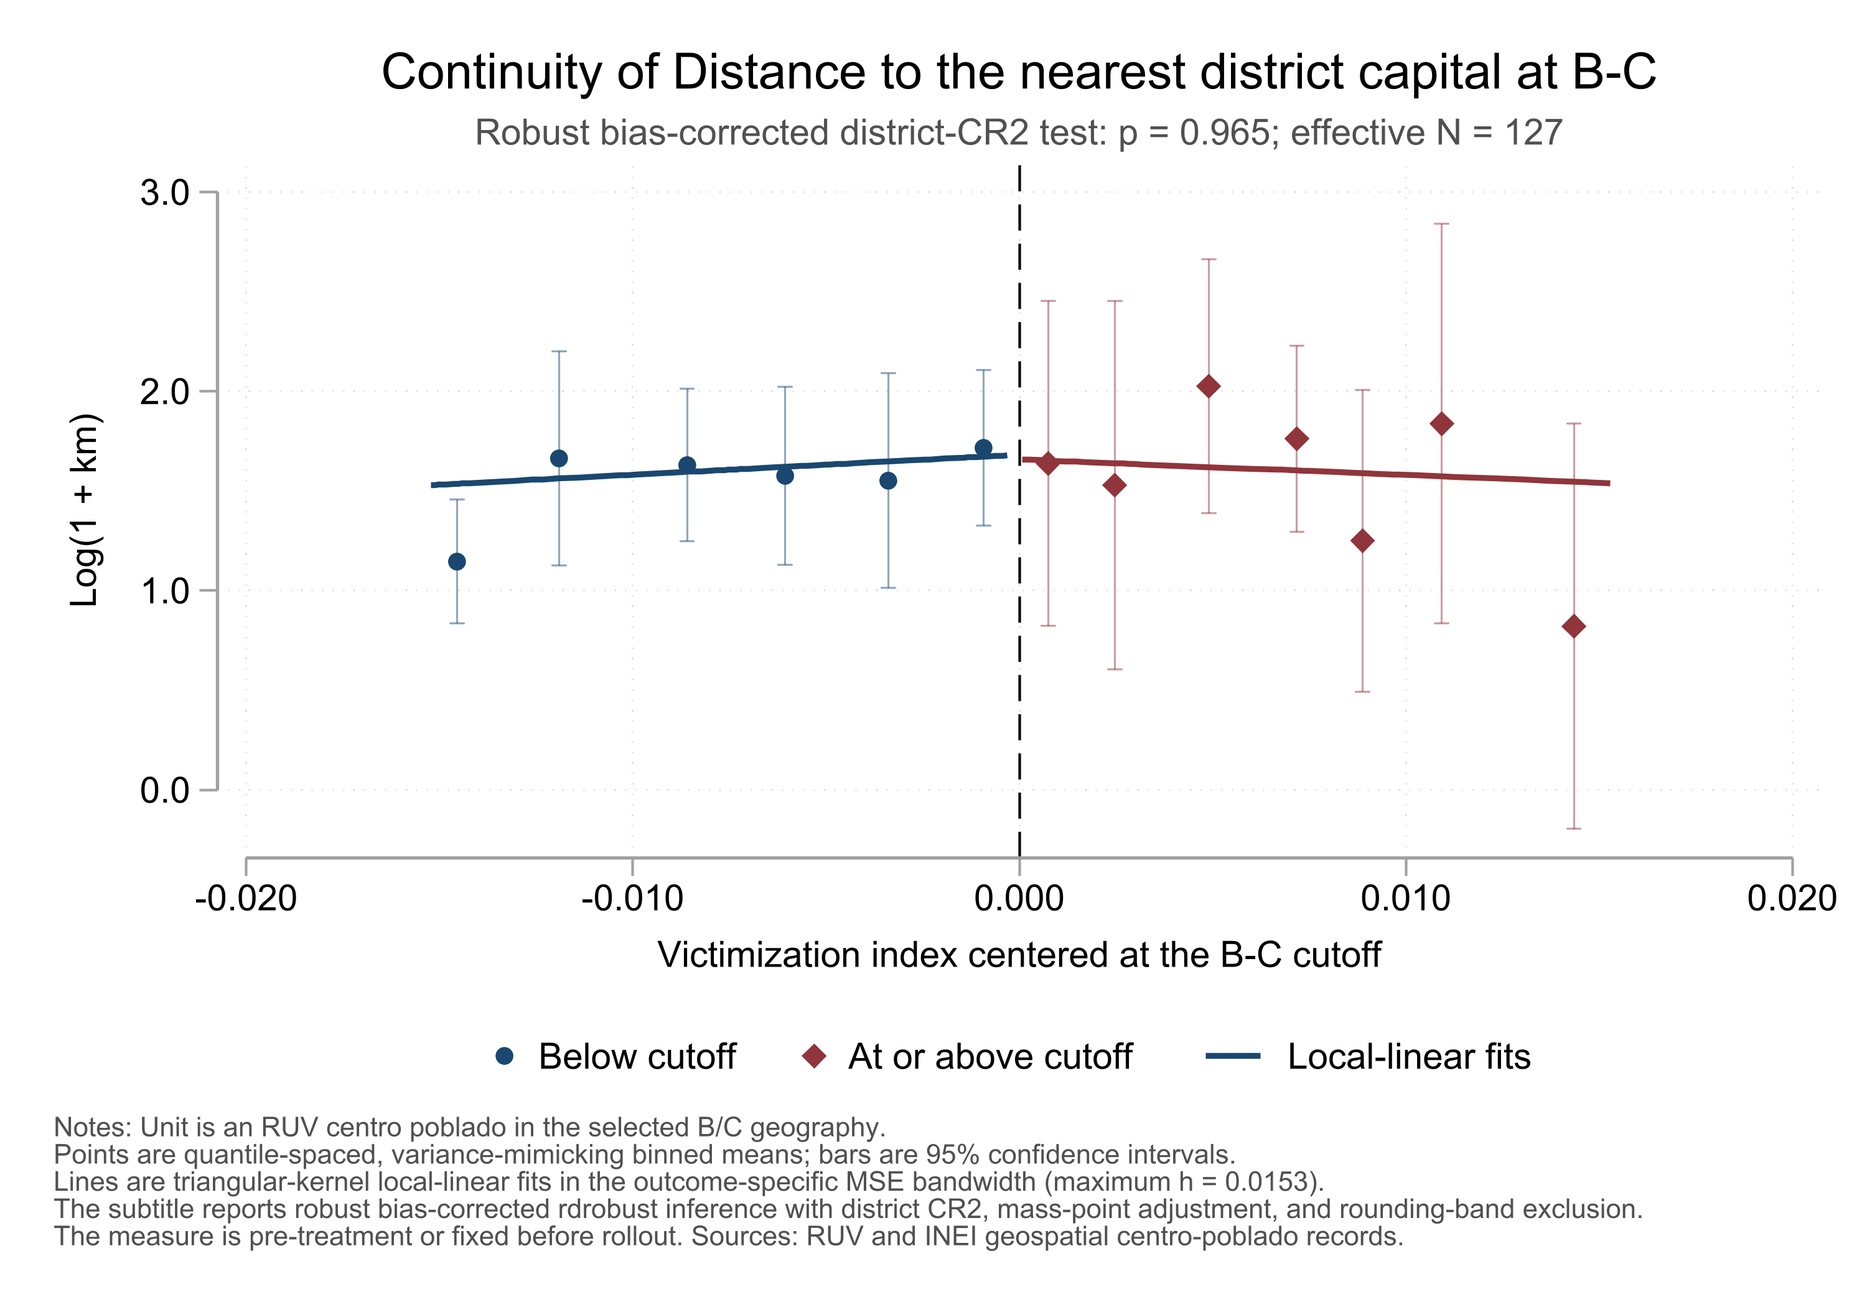
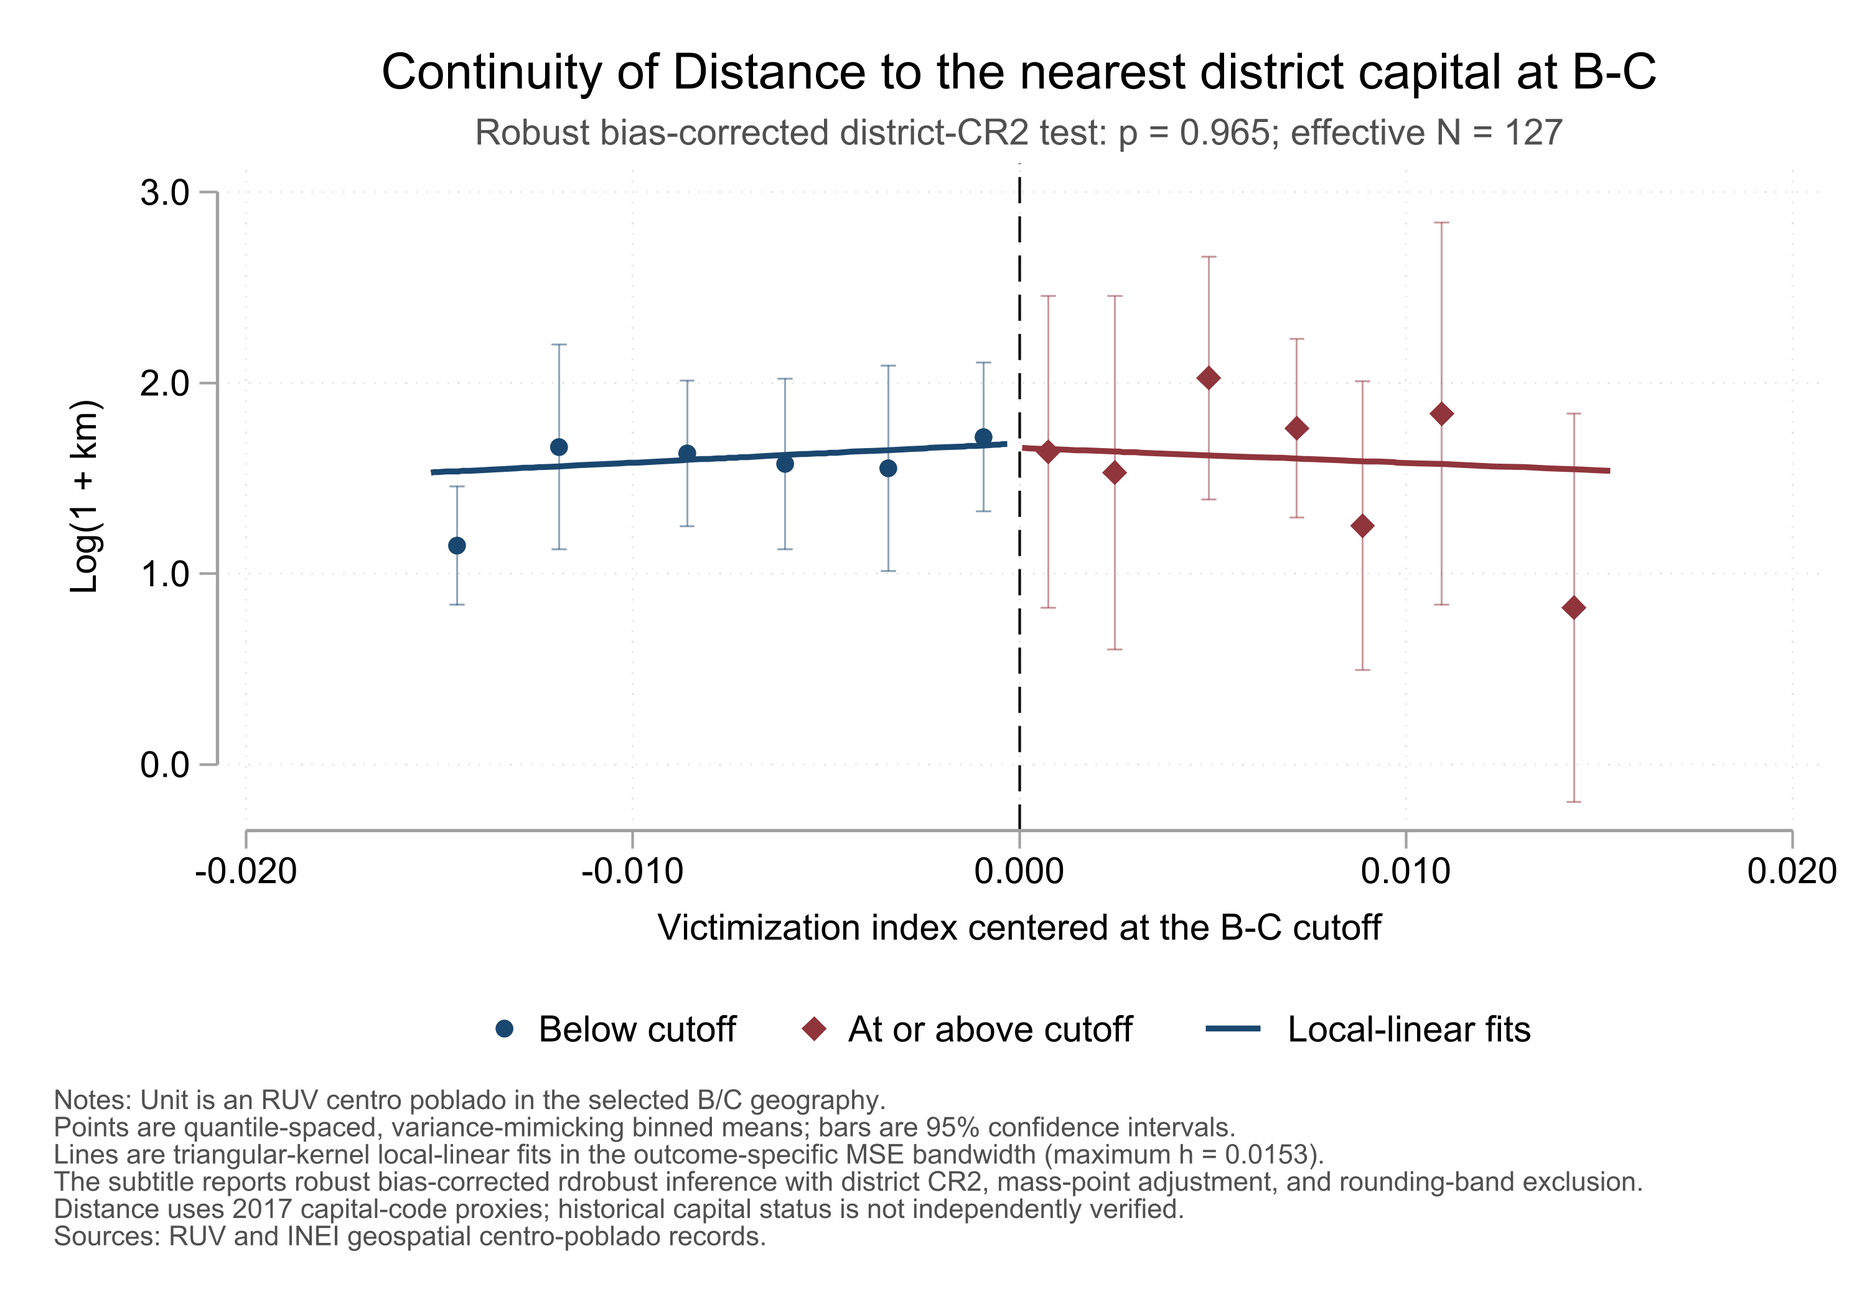
Review held RD diagnostic figures and clarify source notes
Audit all 19 held running-variable and covariate-continuity figures and record
artifact provenance, formal denominators, uncertainty, source qualifications,
full-width review results, and explicit pending integration/release decisions.

Clarify the 2017 geographic-source timing, GDP source units, and the
concentration measure's 2007 population allocation in the existing Stata
generator. Regenerate four presentation-only PNGs and refresh only their
manifest checksums and run IDs; retain generation-time review fields.

Validate through Stata MCP: all 36 manifest checksums, the density diagnostic,
and all 17 raw/standardized covariate tests. Reproduce all 19 final PNGs
byte-for-byte; confirm the other 15 and the before/after numerical audit are
unchanged. Independently verify registered BH/Holm corrections and all five
rendered-note/layout checks.

Inspect the 19-page internal review packet at the live 165.1 mm text width.
Preserve the two nominal covariate discrepancies and distinguish graphical
bin intervals from formal district-CR2 inference. Record the small-note,
rounded-score, historical-selection, source-unit, allocation, and timing limits.

Record the independent review's additional replacement-election timing
finding. Hold the three 2006 election figures pending owner-authorized
note-only repairs; do not drop records or reassign registered test families.

Leave all datasets, 48 primary estimates, 35 approved live exhibits,
[…]

diff --git a/docs/RD_GRAPHICAL_PUBLICATION_AUDIT_2026-10-03.md b/docs/RD_GRAPHICAL_PUBLICATION_AUDIT_2026-10-03.md
@@ -1,0 +1,257 @@
+# RD graphical publication audit — 3 October 2026
+
+## Decision and scope
+
+The owner authorized the next milestone specified in
+[the reader/compression receipt](PUBLICATION_READER_COMPRESSION_2026-10-03.md):
+artifact-level review of the 19 held RD diagnostic figures outside the 35
+already approved internal-draft exhibits. These are the two running-variable
+figures and all 17 separate covariate-continuity figures, numbered 08–26 by
+`03b_validate_rd_assumptions.do`. This is not an inventory-only review, a new
+sample search, or certification of the entire research project.
+
+The owner subsequently approved presentation-only repairs to geographic-source
+timing, GDP source units, and the concentration measure's population allocation.
+These affect four figures: altitude, nearest district-capital distance, district
+GDP in 2006, and district GDP concentration in 2006. Every sample, variable,
+estimate, bandwidth, formal test, and registered multiplicity family is held
+fixed. The GDP axis wording changes with its explanatory note; no underlying
+GDP values or transformation are changed.
+
+All 19 figures have been numerically checked, reproduced through Stata MCP, and
+visually inspected at the current manuscript's full text width. Sixteen are
+**reviewed internal candidates, pending owner integration**. Three 2006-election
+figures (G11–G13) are **held for an existing source-timing note correction** found
+by the independent reviewer. This receipt does not authorize copying any of
+them to live Overleaf or public release. The four geographic/GDP repairs are
+complete; an explicit owner question for the additional three note-only repairs
+is pending. Do not extend the existing four-repair approval silently.
+
+## Provenance and denominator checks
+
+The batch began on a clean `main` checkout at
+`3f0e7df46355291dde7da9d26e3a8817009feacf`. Its local pre-write baseline protects
+896 unique files: 799 tracked files, the needed live publication inputs, and the
+canonical input dataset. The live TeX inventory includes generated table inputs;
+it is not a count of 90 independently editable manuscript sections.
+
+The input is the configured Dropbox Coded current-analysis
+`08_community_registry_elections.dta`, with unchanged Stata signature
+`5712:283(61209):2588972924:1448729060`. Its 5,712 RUV observations remain intact.
+These diagnostic plots do **not** show the full RUV distribution: they concern
+the frozen geographic sample and adjacent B/C categories. The geographic sample
+has 1,162 observations; the eligible B/C diagnostic universe has 549, including
+294 below and 255 at/above the cutoff. There are 160 and 212 distinct recorded
+scores respectively. In this subset there are no score/category sign conflicts
+and no observations in the excluded half-rounding band; the closest scores are
+approximately -0.00032 and +0.00008 relative to B–C.
+
+The histogram's displayed range is ±0.02 index units, not all eligible support.
+Density and covariate effective samples differ from the eligible universe.
+Covariate missingness and the existing outcome-specific diagnostic bandwidth
+selectors produce effective samples of 75–163 observations. The registry reports
+eligible N, formal nonmissing input N, and effective N separately.
+
+## Executed checks and invariance
+
+- All Stata execution used `stata_run_selection`, in the isolated
+  `rd_graph_audit_20261003` session. No `stata_run_file`, direct executable,
+  PowerShell Stata command, or new interactive `.do` file was used.
+- The isolated session initially lacked the project's dependencies in its
+  default search path. The master-defined, already installed local PLUS cache
+  resolved this. No package was installed or upgraded; the user's separate
+  default Stata session was not changed or destroyed.
+- All 36 original module-manifest checksums passed before writing artifacts.
+  All 36 current checksums passed after the four presentation replacements.
+- Before repairs, the existing graphical selections reproduced all 19 original
+  PNGs byte-for-byte. After repairs, the final producing selections again
+  reproduced all 19 current PNGs byte-for-byte. The other 15 are unchanged from
+  the pre-write baseline; exactly four canonical PNGs changed.
+- Each of the 17 covariates was estimated in its displayed/raw units and again
+  in the standardized units used by the existing formal table. Frozen p-values,
+  bandwidths, and effective N passed the declared tolerances. Raw/standardized
+  p-values agree within 0.00001, bandwidths within 0.000001, and effective N
+  exactly. Frozen p-values agree within 0.0000005 and bandwidths within
+  0.00000001. These are numerical-comparison tolerances, not altered tests.
+- The complete before/after numerical-audit CSV is byte-identical, SHA-256
[1 lines of base64/hex data omitted]
+  This local non-observation audit record is
+  not a new analytical dataset or a public release artifact.
+- Execution covered the authoritative graphical producing selections and
+  focused numerical checks, not another full master/data-preparation run.
+- BH and Holm adjustments were independently recalculated from the frozen
+  nominal p-values for the existing 11-variable core and six-variable
+  timing-sensitive families, with agreement within 0.0000005. Linkage tests,
+  other variance branches, primary outcome families, and outcome estimates were
+  not reassigned or rerun by this graphical milestone.
+- The manifest's only field-value changes are the checksum and run ID for the
+  four repaired PNGs. The remaining 32 rows are unchanged in content; CSV quoting
+  was normalized by Stata export. Generation-time `generated_unreviewed` fields
+  remain intact. This dated artifact-review registry records a separate review
+  event rather than inventing generation-time owner or release approval.
+- Independent review prompted one additional aggregate Stata timing check.
+  `elect_complementary_2006` and `elect_result_year_2006` identify two 2007
+  replacement-election records among the 549 eligible B/C observations. Both
+  have nonmissing turnout, victory margin, and mayor-party variables; one
+  enters each variable's existing MSE bandwidth. The three re-estimated formal
+  p-values still match the frozen values within the original tolerances. These
+  are not a new sample restriction or a revised analysis family.
+
+The unchanged formal covariate procedure is local-linear `rdrobust`, triangular
+kernel, MSE selector, robust bias-corrected inference, district CR2 variance,
+mass-point adjustment, and the existing rounding-band exclusion. Its covariate-
+specific diagnostic bandwidths do not change the frozen common bandwidths of
+the primary outcome specifications. Scientific numerical tables and all 48
+primary estimates remain unchanged.
+
+## Scientific reading and limits
+
+The selected B/C density diagnostic reproduces T = -0.4717222085 and p =
+0.63712507, with effective N = 91 below and 53 above. The density plot uses
+separate local-quadratic density curves and pointwise 95% intervals; the formal
+test uses cubic bias correction and jackknife inference. A nonsignificant test
+does not establish no sorting or manipulation, especially for repeated/rounded
+scores, finite support, small effective samples, and a historically searched
+geographic design. The maintained implementation and the authors' discussion of
+test-versus-plot distinctions were checked in the
+[official density repository](https://github.com/rdpackages/rddensity) and
+[Cattaneo, Jansson, and Ma's Stata article](https://rdpackages.github.io/references/Cattaneo-Jansson-Ma_2018_Stata.pdf).
+
+Two of 11 core covariate tests have nominal p < 0.05:
+
+| Covariate | Nominal p | BH q | Holm p | Effective N |
+|---|---:|---:|---:|---:|
+| District GDP in 2006 | 0.02558 | 0.25924 | 0.28134 | 111 |
+| Effective municipal lists in 2002 | 0.04713 | 0.25924 | 0.47134 | 124 |
+
+Neither survives either registered family correction. None of the six
+timing-sensitive 2007 tests rejects after these corrections. This is a statement
+about these tests, not proof of balance, equivalence, covariate continuity, or
+identification. Both nominal discrepancies must remain visible alongside the
+whole family and the full formal table; do not choose plots based on significance.
+
+The 17 covariate figures display quantile-spaced, variance-mimicking binned means
+and separate-side local-linear fits. Their 95% bin-mean intervals are graphical,
+**not district-clustered CR2 intervals**. The subtitle separately reports the
+formal district-CR2 robust bias-corrected test. This distinction was checked
+against the installed `rdplot` implementation and
+[Calonico, Cattaneo, and Titiunik's RD-plot paper](https://rdpackages.github.io/references/Calonico-Cattaneo-Titiunik_2015_JASA.pdf).
+Unconstrained fitted lines or bin intervals may leave the support of binary or
+share outcomes; do not truncate them to manufacture reassuring continuity.
+
+The source qualifications are material to interpretation:
+
+- Altitude is a physical attribute observed in the 2017 geographic source,
+  not a verified 2006 measurement.
+- Nearest district-capital distance uses 2017 code-based capital proxies.
+  Historical legal capital status was not independently verified by this audit.
+- GDP is a model-based estimate in source units. The workbook display scale is
+  unverified; inverse-hyperbolic-sine levels depend on that scale. No PEN unit or
+  inflation adjustment is invented.
+- The source allocates CCPP economic activity using 2007 population shares.
+  Its district concentration measure is settlement primacy, not household
+  inequality, a Gini coefficient, or an independently observed 2006 distribution.
+- The six 2007 measures retain their registered timing-sensitive diagnostic
+  designation because that Census may overlap the first program year. The
+  owner's previously approved treatment of 2007 controls is not silently changed.
+- The 2006 election-cycle variables include 2007 replacement results. The
+  source workflow already documents their timing sensitivity in
+  `MUNICIPAL_ELECTIONS_PREPARATION.md`, lines 192–194. The existing G11–G13
+  blanket pre-treatment/fixed-before-rollout notes do not disclose this and
+  require correction. Do not call these particular plots wholly pre-program
+  evidence, remove the two records, or move tests between registered families
+  without a separately documented scientific decision. The current audit
+  preserves their registered core-family tests and explicitly holds the plots.
+
+NotebookLM was consulted at the explicit Peru project URL but returned an
+authentication/HTML failure. Zotero's exact shared library
+`IE Collective Reparations Peru` was consulted read-only; metadata was available,
+but the targeted paper-context retrieval failed. No fresh full-notebook or
+full-Zotero-attachment review is claimed. The underlying author sources and
+installed command documentation, not connector-generated summaries, support the
+methodological statements above.
+
+## Presentation repairs and actual-size review
+
+The original source-note semantic tests failed for the four affected figures.
+The first longer-note candidate then failed the geometric clipping check for
+distance, GDP, and concentration. The final producer places each qualification
+and its source on separate note lines. All five final semantic/layout tests pass;
+all four sources are fully visible in the final Stata exports. The helper's tests
+read Stata-generated SVG text and positions, not merely source-code keywords.
+SVGs are ignored audit intermediates, not additional canonical publication inputs.
+
+The final audit viewed all 19 PDF-rendered pages at **165.1 mm** figure width,
+the current live article's 6.5-inch text width, not the preliminary 174 mm preview.
+Each canonical PNG is 3,000 × 2,100 pixels, approximately 462 ppi at that width.
+Titles/subtitles fit on one line; axes, legends, plotted intervals, and full
+notes are visible with no clipping or overlap in the inspected packet. The
+bottom-note type is approximately 6.8 pt at this width: legible in the internal
+review, but small. This is **full-width internal review clearance only**.
+Half-width/composite use and a publisher's minimum-font requirements are not
+cleared. If a publisher requires larger notes, another presentation-only
+regeneration and review will be needed; do not downsize these plots.
+
+The ignored 19-page review packet is
+`build/rd-graphics-audit-2026-10-03/rd-graphical-diagnostics-review.pdf`, SHA-256
[1 lines of base64/hex data omitted]
+Its header explicitly says internal-only and not release-cleared. G11–G13 have
+an additional explicit HOLD annotation for the replacement-election timing note.
+The packet adds audit annotations; it does not replace the canonical Stata PNGs. Poppler
+issued display-font lookup warnings during page rendering, but all 19 pages
+rendered and were inspected; no missing or damaged glyph was observed.
+
+## Review registry, protected scope, and next decision
+
+[The 19-row artifact registry](../metadata/rd-graphical-review-2026-10-03.csv)
+records original/current SHA-256 and Stata checksums, run IDs, generator and input
+identity, formal denominators, p-values and adjustments, interval distinctions,
+actual review width/pages, qualifications, and explicit zero owner-integration
+and public-release approvals for these additional figures. It separately holds
+G11–G13 pending the additional source-note correction.
+
+No Raw, archived, Working, or Coded dataset was changed. No data was copied into
+Git or its build cache. The prior 35 reviewed live copies, manuscript sources,
+bibliography, existing result/release registries, and all unrelated tracked
+files remain protected. The expected baseline deltas are the generating Stata
+program, its manifest, four PNGs, and the context pointer to this receipt; the
+new receipt and new artifact registry are non-observation documentation.
+
+Immediate decision: approve or defer the three additional election-timing note
+repairs, with all scientific results and registered families held fixed. Until
+resolved, the three affected plots must not be integrated or called cleared.
+
+After those repairs pass, explicitly approve or decline internal-draft
+integration of the **complete** 19-figure diagnostic family at full width in an
+Online Appendix C diagnostic supplement, with the formal family table and the
+qualifications above available to readers. Do not add 19 plots to the main
+article or select only reassuring plots. Integration would be a separate live
+publication task, with exact-path/hash checks and a fresh appendix compilation.
+Only after that decision should the remaining software-version-lock,
+administrative, submission-file, and disclosure/public-release preflight be
+closed. No new sample search or estimation strategy is authorized by this audit.
+
+## Independent closeout
+
+The fresh independent read-only review inspected all 19 final pages and
+independently confirmed byte-identical RGB pixels between the packet images
+and canonical PNGs, the protected-file scope, the five note/layout tests, and
+the registered multiplicity adjustments. It identified the Important existing
+election-timing note qualification described above. This issue is not concealed
+by the passing technical checks and remains held pending owner direction.
+
+Review outcome: zero Critical findings, one Important existing note issue, and
+no additional actionable Minor findings. The same reviewer then checked the
+corrected 16-candidate/three-held disposition against the receipt, context,
+registry, and revised packet. All agree. HOLD annotations occur on exactly
+pages 11–13; the held pages' images still match the unchanged canonical PNG
+pixels. The Important issue is **transparently contained, not repaired**.
+There is no remaining disposition-documentation inconsistency; this does not
+clear the three original notes or supply the pending owner approval.
+
+The final protected-file, registry/PDF, Stata checksum, and existing
+publication-review checks pass: 896 protected paths, seven allowed changes,
+889 unchanged; 19 identical final replicas; four presentation changes; no
+unexpected protected-file changes. Technical reproduction and this
+bounded graphical review do not certify causal identification or a release-ready
+paper. No files have been staged, committed, or pushed.

diff --git a/docs/PROJECT_CONTEXT.md b/docs/PROJECT_CONTEXT.md
@@ -1,5 +1,27 @@
 # Victimas RD project context
 
+## 3 October 2026: held RD graphical diagnostic audit
+
+Read [the graphical audit receipt](RD_GRAPHICAL_PUBLICATION_AUDIT_2026-10-03.md)
+and `metadata/rd-graphical-review-2026-10-03.csv` before integrating the 19
+additional RD diagnostic figures. The owner approved note/unit presentation
+repairs affecting four figures; no sample, variable, estimate, bandwidth,
+formal test, or multiplicity family changed. All 19 figures were reproduced
+through Stata MCP and inspected at the live manuscript's 165.1 mm full width.
+The bottom notes are small; half-width/composite and publisher font clearance
+remain pending. Sixteen are reviewed internal candidates; G11–G13 remain held
+for election-timing note repair. None is covered by the previous approval of
+35 live exhibits. Live integration and public release
+remain unapproved for the additional figures. Density-test nonsignificance and
+the absence of multiplicity-adjusted covariate rejections do not prove no
+manipulation, balance, or RD validity. The two nominal core discrepancies and
+the geographic-source, GDP-unit/allocation, 2007 timing, and selection limits
+must remain visible. Independent review additionally found that the three
+2006-election plots include 2007 replacement returns in their effective samples.
+They are held pending explicit approval of additional note-only repairs.
+Do not drop records or silently revise
+the registered test families. No Dropbox data or live manuscript was changed.
+
 ## 3 October 2026: integrated internal reader and compression pass
 
 The authorized reader/compression pass is recorded in
